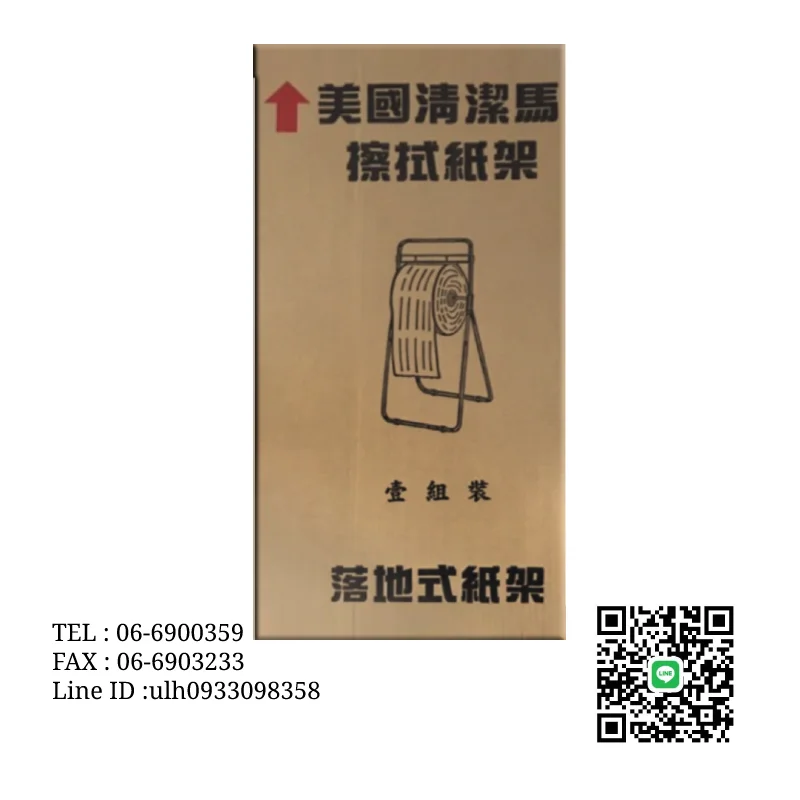
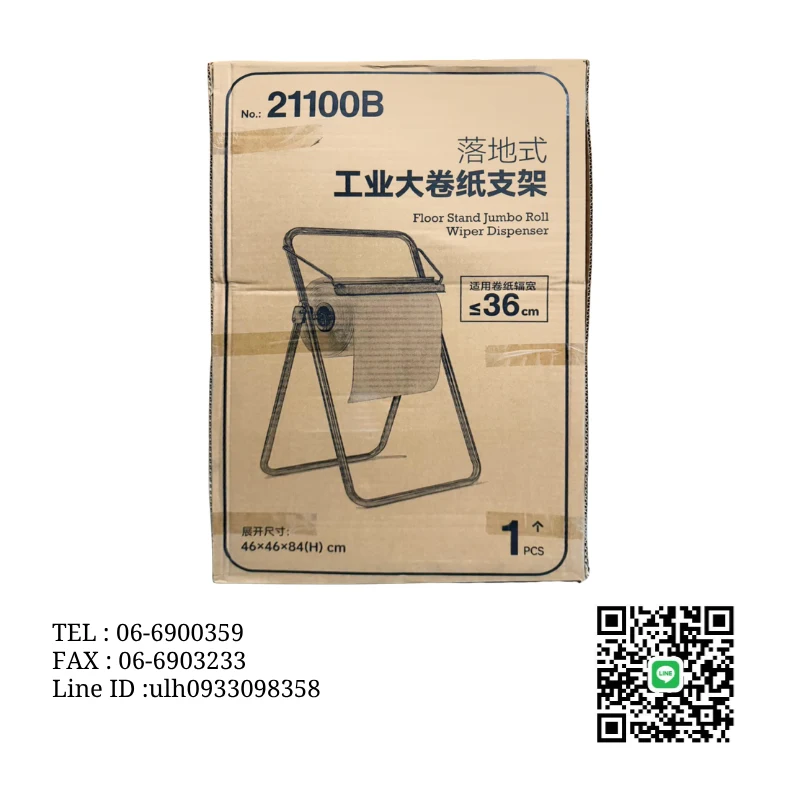
依公司異動單更新 14 項商品規格；擦拭紙架換新圖；首頁描述文字修正不換行；清理孤兒圖片
- products.json：包裝數量、寬度規格、顏色選項等 14 處異動（詳見 260805 計劃書）
- 擦拭紙架 (1468614) 換新圖並補上規格
- 恢復 10針棉紗+彈性紗 (1464764) 資料但標記 available:false（用戶確認 404 可接受）
- 首頁 hp-desc 移除過窄的 max-width，desktop 不再被迫換行
- 刪除未被引用的孤兒圖片 product_l_1473320.webp
- 更新兩份計劃書進度

Claude-Session: https://claude.ai/code/session_01RWTuh2RhfbzHNhir3pK2xm

diff --git a/.claude/plans/260805-website-revision-plan.md b/.claude/plans/260805-website-revision-plan.md
@@ -1,0 +1,46 @@
+# 網頁修改意見（公司提出）執行計劃書
+
+## 目標
+依公司提供的 `網頁修改.xlsx`（14 項異動）更新 `src/data/products.json` 與首頁 LOGO。
+
+## TODO
+
+### products.json 異動（已全部完成，JSON 已驗證）
+- [x] 10針棉紗+彈性紗 (1464764)：整筆刪除 → **後續已恢復**（見下方「其他討論」）
+- [x] 13針花紋手套 (1468606)：包裝「12雙/打」→「一包10雙」
+- [x] 斑馬膠帶 (1468572)：顏色「黃黑/紅白」→「黃黑」（含 description、features 同步修正）
+- [x] PVC短截膜 (1473349)：寬度移除 12"，剩「2"/4"/6"/8"」
+- [x] 六角網布 (1467517)：寬度改為「10/12.5/16.6/20/25/33.3/50/100cm」
+- [x] A級防水不織布 (1467525)：寬度改為「10/12.5/16.6/20/25/33.3/50/101cm」（已與用戶確認 101 非筆誤）
+- [x] 玻纖網 (1467539)：寬度改為「10/12.5/16.6/20/25/33.3/50/102cm」（已與用戶確認 102 非筆誤）
+- [x] 擦拭紙架 (1468614)：名稱移除「(清潔馬)」，specifications 一併移除「品牌：清潔馬」
+- [x] 自黏塑膠網帶 (1473345)：規格改為「3.5cm/5cm/10cm/20cm」（原 50mm×90m 單一規格）
+- [x] PE交通錐 (1473322)：高度「70cm」→「72cm」
+- [x] 腳踏黏墊 (1473343)：規格只留「60×90cm」（移除 45×90cm）
+- [x] 塑鋼手推車200kg (1473328)：新增規格「輪胎：4吋」
+- [x] 塑鋼手推車300kg (1473329)：新增規格「輪胎：5吋」
+- [x] 麻布袋 (1473350)：每捆數量「25只」→「20只」
+
+### 待用戶提供素材才能繼續
+- [x] 擦拭紙架 (1468614) 新圖片：用戶提供檔案 `C:\Users\USER\Desktop\要放網站的商品模板\擦拭紙架.webp`（800×800，Canva 匯出的 PNG 偽裝 .webp），已轉為真正 webp（quality 88）覆蓋 `public/images/product_l_1468614.webp`，並跑 `npm run thumbnails` 補產生 `product_l_1468614_thumb.webp`
+- [x] 擦拭紙架 (1468614) specifications 補上新圖上的規格：「適用卷紙寬度：≤36cm」「展開尺寸：46×46×84(H)cm」
+- [ ] 首頁 LOGO 改「紅螞蟻圖」：用戶已提供圖檔（`Red Ant 商標+R.svg` 全身線稿 + Gemini 生成全彩版），目前在另開的對話中反覆調整「圓形 icon」構圖（頭部+觸角置中、圓框樣式），尚未定案。定案後才會套用，牽動 Header/Footer/favicon 多處（含 `npm run favicon` 重跑）
+
+## 其他討論
+
+### 10針棉紗+彈性紗 (1464764) 頁面恢復
+- 用戶詢問：舊網址 `https://chiaohsin.com.tw/products/1464764` 刪除後能否恢復，但不顯示就好
+- 討論後確認：全站目前無任何地方（分類頁/搜尋/首頁貨架/相關商品）會連到 `available: false` 的商品，但 `[id].astro` 的 `getStaticPaths` 現行邏輯是 `available: false` 的商品連頁面都不會產生（直接造訪會 404），並非「頁面存在但不列出」
+- 用戶最終選擇：**404 也沒關係**，只要資料保留在 `products.json`，不需改程式
+- 已從 git diff 取回原始欄位內容，重新插入 `products.json`（`cotton-gloves` 分類，1468521 之前），並加上 `"available": false`
+- 對應圖片 `public/images/product_l_1464764.webp` 與縮圖仍存在（尚未被清理），故資料與圖片皆已恢復一致
+- 直接造訪 `/products/1464764` 目前仍會 404（因 `[id].astro` getStaticPaths 排除 available:false 商品）——此為用戶已確認接受的結果，非待辦
+
+## 重要位置
+- `src/data/products.json` — 本次所有商品欄位異動處
+- `src/components/Header.astro` / `src/components/Footer.astro` / `src/layouts/Layout.astro` / `src/data/company.json` — LOGO 出現位置
+- `src/pages/products/[id].astro:10` — getStaticPaths 排除 `available: false` 商品（1464764 頁面不會產生的原因）
+
+## 備註
+- 原始異動單：`C:\Users\USER\Downloads\網頁修改.xlsx`
+- 麻布袋 20只 vs 原「每捆重量約1.1kg」未同步調整（用戶只要求改數量，未要求改重量，故保留原重量）

diff --git a/.claude/plans/260714-blog-content-review-plan.md b/.claude/plans/260714-blog-content-review-plan.md
@@ -50,8 +50,8 @@
   - 乳膠「耐溶劑」評級 ★★→★（不耐有機溶劑）
 
 ### 其他
-- [ ] `public/design-preview.html` 刪除（設計方案已定）
-- [ ] blog.astro「使用維護」分類顯示 0 篇（待確認是否有文章屬於此分類、或分類標籤需調整）
+- [x] `public/design-preview.html` 刪除（設計方案已定）
+- [ ] blog.astro「使用維護」分類顯示 0 篇 — 已確認：9 篇文章比對 title/tags 皆無「保養」「維護」關鍵字，確實無文章符合此分類。與用戶討論後決定：**先擱置**，保留篩選按鈕，之後補一篇手套清潔保養/維護主題文章即可讓分類有內容（不需改 code）
 
 ## 重要位置
 - `src/components/GloveSpecCard.astro` — spec card 元件
